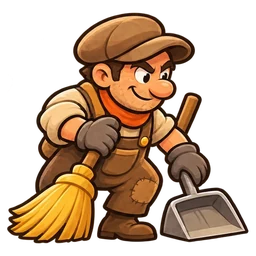
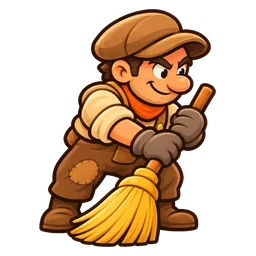
Spazzino: nuova icona, camminata e attacco con la scopa
Claude-Session: https://claude.ai/code/session_01HfaWZ85fbzKyRqfxnb746i

diff --git a/index.html b/index.html
@@ -1374,6 +1374,7 @@ const abilRow=k=>(ABIL[k]||[]).length?`<span class="tabil">${ABIL[k].map(a=>`<im
 const ANIM={
   faina:{h:31,stride:7,walk:{n:4,fw:153,fh:131,ax:.5},atk:{n:4,fw:181,fh:130,ax:.47}},
   mucca:{h:40,stride:6,walk:{n:4,fw:176,fh:134,ax:.5},atk:{n:4,fw:204,fh:139,ax:.409}},
+  spazzino:{h:38,stride:7,walk:{n:4,fw:92,fh:132,ax:.5},atk:{n:4,fw:145,fh:134,ax:.309}},
   corvo:{h:40,fly:{n:4,fw:151,fh:179,ax:.994,ox:62},atk:{n:4,fw:167,fh:173,ax:.968,ox:62}},
 };
 // file: icons/anim/<personaggio>-walk|atk|fly.webp; ax = punto d'aggancio nel fotogramma (0 sinistra, 1 destra), ox = suo spostamento dal centro (px a scala 128)

diff --git a/sw.js b/sw.js
@@ -2,7 +2,7 @@
 // Pagina e script: prima la rete (così gli aggiornamenti arrivano subito), poi la copia salvata.
 // Immagini: prima la copia salvata. Quando cambi immagini già esistenti, aumenta VERSION.
 // tools/test-pwa.js controlla che tutte le icone siano in PRECACHE.
-const VERSION='ff-v5';
+const VERSION='ff-v6';
 const PRECACHE=[
  "./",
  "index.html",
@@ -63,6 +63,8 @@ const PRECACHE=[
  "icons/anim/faina-walk.webp",
  "icons/anim/mucca-atk.webp",
  "icons/anim/mucca-walk.webp",
+ "icons/anim/spazzino-atk.webp",
+ "icons/anim/spazzino-walk.webp",
  "icons/falco.webp",
  "icons/gallico.webp",
  "icons/gatto.webp",

diff --git a/tools/immagini/cutgrid.py b/tools/immagini/cutgrid.py
@@ -24,8 +24,12 @@ for idx,name in enumerate(names):
     ks=cell.get(idx,[]);m=np.isin(pl,ks)
     if name in holes:
         hl,hn=nd.label(white&m);hs=nd.sum(np.ones_like(hl),hl,range(1,hn+1))
+        ys0,_=np.where(m);top,bot=ys0.min(),ys0.max()
         for k,z in enumerate(hs,1):
-            if z>120: m&=~(hl==k)
+            if z<=120: continue
+            yy,_=np.where(hl==k)
+            # i buchi chiusi si tolgono solo nella metà bassa (tra gambe, braccia e attrezzi): gli occhi restano
+            if (yy.mean()-top)/(bot-top)>.45 or name.endswith('*'): m&=~(hl==k)
     ys,xs=np.where(m);x0,x1,y0,y1=xs.min(),xs.max()+1,ys.min(),ys.max()+1
     al=Image.fromarray((m*255).astype(np.uint8)).filter(ImageFilter.MinFilter(3)).filter(ImageFilter.GaussianBlur(.7))
     rgba=im.convert('RGBA');rgba.putalpha(Image.fromarray(np.minimum(np.array(al),np.array(im.convert('RGBA'))[:,:,3])));cr=rgba.crop((x0,y0,x1,y1))
